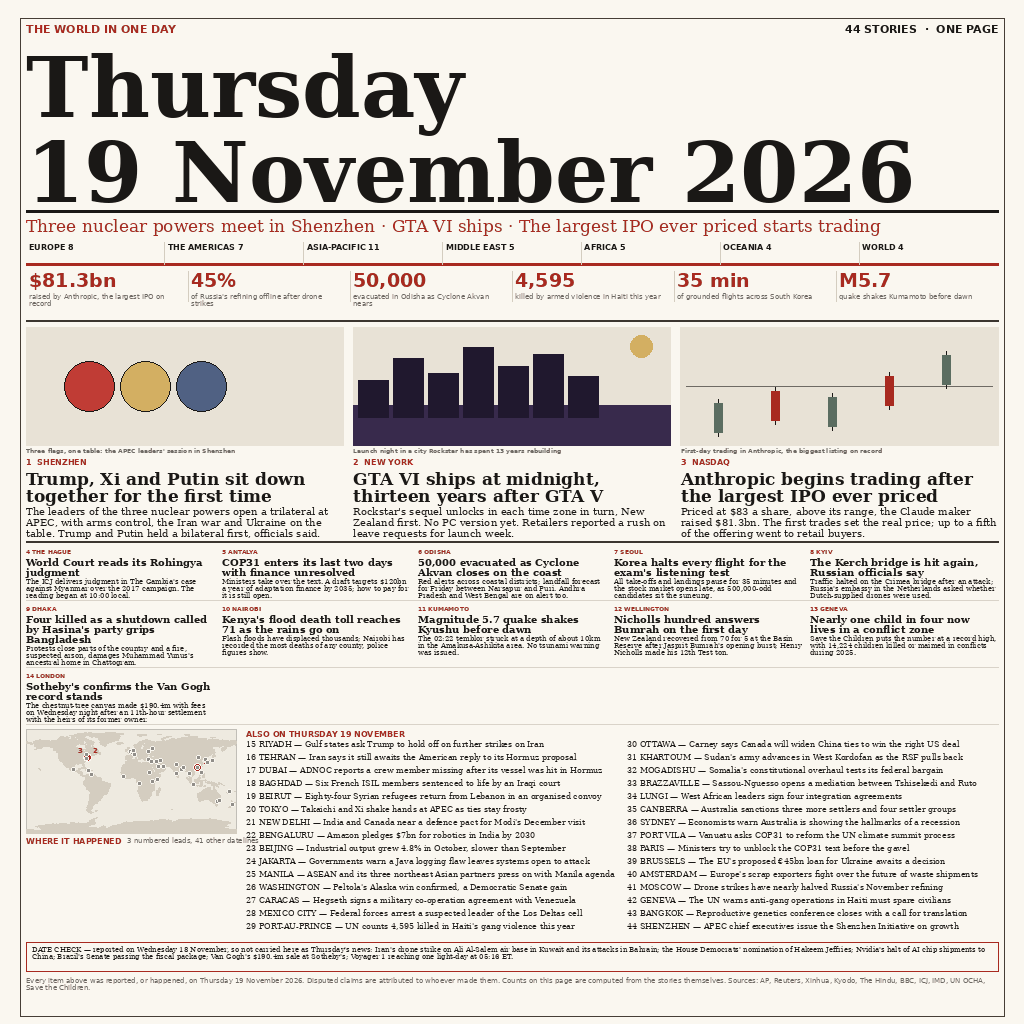
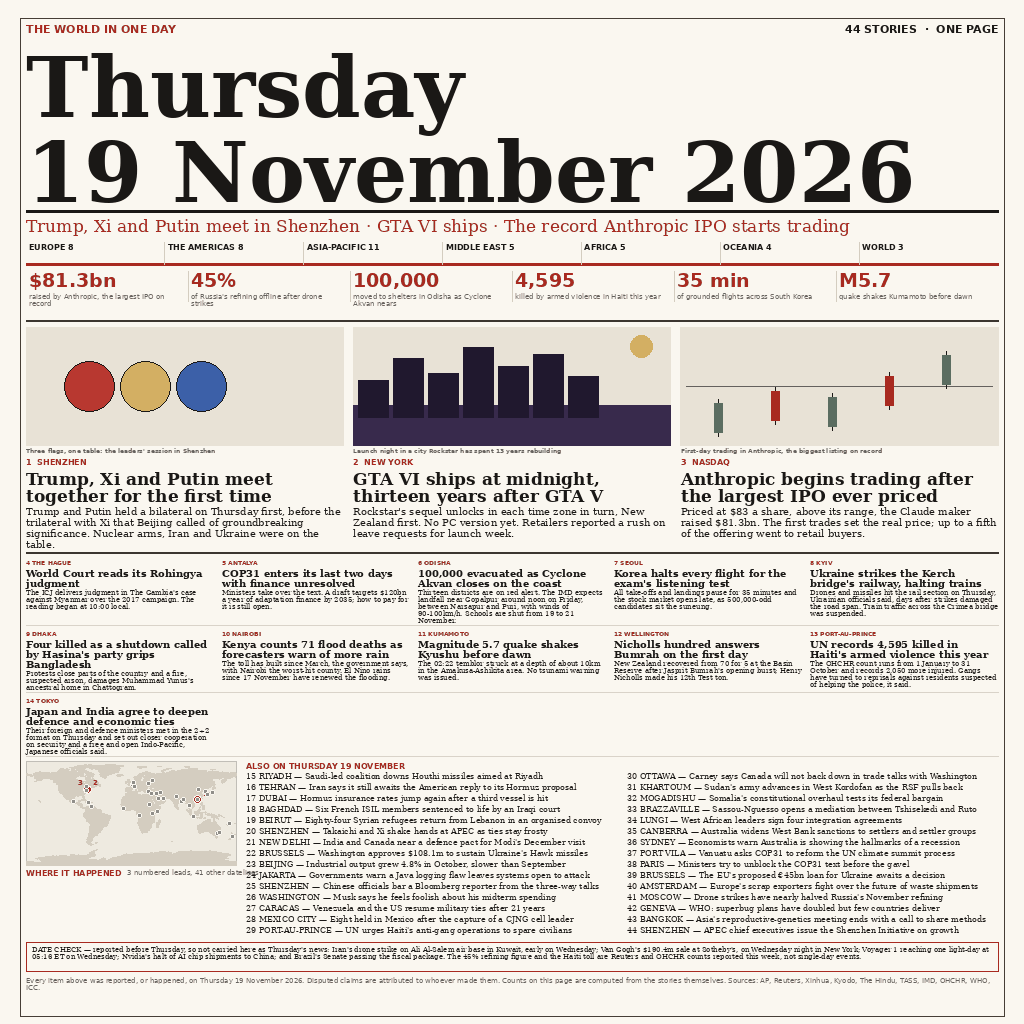
Correct dated claims and rebuild the 19 November front page

Changed region(s): [[0.0, 0.4375, 0.9688, 0.9688], [0.0312, 0.2188, 0.8438, 0.3125], [0.1562, 0.3438, 0.2188, 0.4062]]

diff --git a/stories.py b/stories.py
@@ -8,40 +8,41 @@ date-check band rather than presented as Thursday's news.
 DATA = {
     "paper": "The World in One Day",
     "date_lines": ["Thursday", "19 November 2026"],
-    "standfirst": "Three nuclear powers meet in Shenzhen  ·  GTA VI ships  ·  "
-                  "The largest IPO ever priced starts trading",
+    "standfirst": "Trump, Xi and Putin meet in Shenzhen  ·  GTA VI ships  ·  "
+                  "The record Anthropic IPO starts trading",
     "region_order": ["EUROPE", "THE AMERICAS", "ASIA-PACIFIC", "MIDDLE EAST",
                      "AFRICA", "OCEANIA", "WORLD"],
     "figures": [
         ("$81.3bn", "raised by Anthropic, the largest IPO on record"),
         ("45%", "of Russia's refining offline after drone strikes"),
-        ("50,000", "evacuated in Odisha as Cyclone Akvan nears"),
+        ("100,000", "moved to shelters in Odisha as Cyclone Akvan nears"),
         ("4,595", "killed by armed violence in Haiti this year"),
         ("35 min", "of grounded flights across South Korea"),
         ("M5.7", "quake shakes Kumamoto before dawn"),
     ],
     "brief_header": "Also on Thursday 19 November",
     "date_check": (
-        "reported on Wednesday 18 November, so not carried here as Thursday's news: "
-        "Iran's drone strike on Ali Al-Salem air base in Kuwait and its attacks in Bahrain; "
-        "the House Democrats' nomination of Hakeem Jeffries; Nvidia's halt of AI chip "
-        "shipments to China; Brazil's Senate passing the fiscal package; Van Gogh's "
-        "$190.4m sale at Sotheby's; Voyager 1 reaching one light-day at 05:16 ET."
+        "reported before Thursday, so not carried here as Thursday's news: Iran's drone "
+        "strike on Ali Al-Salem air base in Kuwait, early on Wednesday; Van Gogh's $190.4m "
+        "sale at Sotheby's, on Wednesday night in New York; Voyager 1 reaching one "
+        "light-day at 05:16 ET on Wednesday; Nvidia's halt of AI chip shipments to China; "
+        "and Brazil's Senate passing the fiscal package. The 45% refining figure and the "
+        "Haiti toll are Reuters and OHCHR counts reported this week, not single-day events."
     ),
     "footer": (
         "Every item above was reported, or happened, on Thursday 19 November 2026. "
         "Disputed claims are attributed to whoever made them. Counts on this page are "
         "computed from the stories themselves. Sources: AP, Reuters, Xinhua, Kyodo, "
-        "The Hindu, BBC, ICJ, IMD, UN OCHA, Save the Children."
+        "The Hindu, TASS, IMD, OHCHR, WHO, ICC."
     ),
     "stories": [
         # ---------------- leads, illustrated ----------------
         dict(n=1, region="ASIA-PACIFIC", where="Shenzhen", art="flags",
-             caption="Three flags, one table: the APEC leaders\' session in Shenzhen",
-             head="Trump, Xi and Putin sit down together for the first time",
-             text="The leaders of the three nuclear powers open a trilateral at APEC, "
-                  "with arms control, the Iran war and Ukraine on the table. Trump and "
-                  "Putin held a bilateral first, officials said.",
+             caption="Three flags, one table: the leaders' session in Shenzhen",
+             head="Trump, Xi and Putin meet together for the first time",
+             text="Trump and Putin held a bilateral on Thursday first, before the "
+                  "trilateral with Xi that Beijing called of groundbreaking significance. "
+                  "Nuclear arms, Iran and Ukraine were on the table.",
              lon=114.06, lat=22.54),
         dict(n=2, region="THE AMERICAS", where="New York", art="skyline",
              caption="Launch night in a city Rockstar has spent 13 years rebuilding",
@@ -70,10 +71,10 @@ DATA = {
                   "adaptation finance by 2035; how to pay for it is still open.",
              lon=30.7, lat=36.9),
         dict(n=6, region="ASIA-PACIFIC", where="Odisha", mid=True,
-             head="50,000 evacuated as Cyclone Akvan closes on the coast",
-             text="Red alerts across coastal districts; landfall forecast for Friday "
-                  "between Narsapur and Puri. Andhra Pradesh and West Bengal are on "
-                  "alert too.",
+             head="100,000 evacuated as Cyclone Akvan closes on the coast",
+             text="Thirteen districts are on red alert. The IMD expects landfall near "
+                  "Gopalpur around noon on Friday, between Narsapur and Puri, with winds "
+                  "of 90-100km/h. Schools are shut from 19 to 21 November.",
              lon=85.8, lat=20.3),
         dict(n=7, region="ASIA-PACIFIC", where="Seoul", mid=True,
              head="Korea halts every flight for the exam's listening test",
@@ -81,9 +82,10 @@ DATA = {
                   "opens late, as 500,000-odd candidates sit the suneung.",
              lon=126.98, lat=37.57),
         dict(n=8, region="EUROPE", where="Kyiv", mid=True,
-             head="The Kerch bridge is hit again, Russian officials say",
-             text="Traffic halted on the Crimea bridge after an attack; Russia's embassy "
-                  "in the Netherlands asked whether Dutch-supplied drones were used.",
+             head="Ukraine strikes the Kerch bridge's railway, halting trains",
+             text="Drones and missiles hit the rail section on Thursday, Ukrainian "
+                  "officials said, days after strikes damaged the road span. Train "
+                  "traffic across the Crimea bridge was suspended.",
              lon=30.52, lat=50.45),
         dict(n=9, region="ASIA-PACIFIC", where="Dhaka", mid=True,
              head="Four killed as a shutdown called by Hasina's party grips Bangladesh",
@@ -91,9 +93,10 @@ DATA = {
                   "damages Muhammad Yunus's ancestral home in Chattogram.",
              lon=90.4, lat=23.81),
         dict(n=10, region="AFRICA", where="Nairobi", mid=True,
-             head="Kenya's flood death toll reaches 71 as the rains go on",
-             text="Flash floods have displaced thousands; Nairobi has recorded the most "
-                  "deaths of any county, police figures show.",
+             head="Kenya counts 71 flood deaths as forecasters warn of more rain",
+             text="The toll has built since March, the government says, with Nairobi the "
+                  "worst-hit county. El Nino rains since 17 November have renewed the "
+                  "flooding.",
              lon=36.82, lat=-1.29),
         dict(n=11, region="ASIA-PACIFIC", where="Kumamoto", mid=True,
              head="Magnitude 5.7 quake shakes Kyushu before dawn",
@@ -105,26 +108,28 @@ DATA = {
              text="New Zealand recovered from 70 for 5 at the Basin Reserve after "
                   "Jasprit Bumrah's opening burst; Henry Nicholls made his 12th Test ton.",
              lon=174.78, lat=-41.29),
-        dict(n=13, region="WORLD", where="Geneva", mid=True,
-             head="Nearly one child in four now lives in a conflict zone",
-             text="Save the Children puts the number at a record high, with 14,224 "
-                  "children killed or maimed in conflicts during 2025.",
-             lon=6.14, lat=46.2),
-        dict(n=14, region="EUROPE", where="London", mid=True,
-             head="Sotheby's confirms the Van Gogh record stands",
-             text="The chestnut-tree canvas made $190.4m with fees on Wednesday night "
-                  "after an 11th-hour settlement with the heirs of its former owner.",
-             lon=-0.13, lat=51.51),
+        dict(n=13, region="THE AMERICAS", where="Port-au-Prince", mid=True,
+             head="UN records 4,595 killed in Haiti's armed violence this year",
+             text="The OHCHR count runs from 1 January to 31 October and records 2,050 "
+                  "more injured. Gangs have turned to reprisals against residents "
+                  "suspected of helping the police, it said.",
+             lon=-72.34, lat=18.54),
+        dict(n=14, region="ASIA-PACIFIC", where="Tokyo", mid=True,
+             head="Japan and India agree to deepen defence and economic ties",
+             text="Their foreign and defence ministers met in the 2+2 format on Thursday "
+                  "and set out closer cooperation on security and a free and open "
+                  "Indo-Pacific, Japanese officials said.",
+             lon=139.69, lat=35.69),
 
         # ---------------- briefs ----------------
         dict(n=15, region="MIDDLE EAST", where="Riyadh",
-             head="Gulf states ask Trump to hold off on further strikes on Iran",
+             head="Saudi-led coalition downs Houthi missiles aimed at Riyadh",
              lon=46.72, lat=24.71),
         dict(n=16, region="MIDDLE EAST", where="Tehran",
              head="Iran says it still awaits the American reply to its Hormuz proposal",
              lon=51.39, lat=35.69),
         dict(n=17, region="MIDDLE EAST", where="Dubai",
-             head="ADNOC reports a crew member missing after its vessel was hit in Hormuz",
+             head="Hormuz insurance rates jump again after a third vessel is hit",
              lon=55.27, lat=25.2),
         dict(n=18, region="MIDDLE EAST", where="Baghdad",
              head="Six French ISIL members sentenced to life by an Iraqi court",
@@ -132,38 +137,38 @@ DATA = {
         dict(n=19, region="MIDDLE EAST", where="Beirut",
              head="Eighty-four Syrian refugees return from Lebanon in an organised convoy",
              lon=35.5, lat=33.89),
-        dict(n=20, region="ASIA-PACIFIC", where="Tokyo",
+        dict(n=20, region="ASIA-PACIFIC", where="Shenzhen",
              head="Takaichi and Xi shake hands at APEC as ties stay frosty",
-             lon=139.69, lat=35.69),
+             lon=114.06, lat=22.54),
         dict(n=21, region="ASIA-PACIFIC", where="New Delhi",
              head="India and Canada near a defence pact for Modi's December visit",
              lon=77.21, lat=28.61),
-        dict(n=22, region="ASIA-PACIFIC", where="Bengaluru",
-             head="Amazon pledges $7bn for robotics in India by 2030",
-             lon=77.59, lat=12.97),
+        dict(n=22, region="EUROPE", where="Brussels",
+             head="Washington approves $108.1m to sustain Ukraine's Hawk missiles",
+             lon=4.35, lat=50.85),
         dict(n=23, region="ASIA-PACIFIC", where="Beijing",
              head="Industrial output grew 4.8% in October, slower than September",
              lon=116.4, lat=39.9),
         dict(n=24, region="ASIA-PACIFIC", where="Jakarta",
              head="Governments warn a Java logging flaw leaves systems open to attack",
              lon=106.85, lat=-6.21),
-        dict(n=25, region="ASIA-PACIFIC", where="Manila",
-             head="ASEAN and its three northeast Asian partners press on with Manila agenda",
-             lon=120.98, lat=14.6),
+        dict(n=25, region="ASIA-PACIFIC", where="Shenzhen",
+             head="Chinese officials bar a Bloomberg reporter from the three-way talks",
+             lon=114.06, lat=22.54),
         dict(n=26, region="THE AMERICAS", where="Washington",
-             head="Peltola's Alaska win confirmed, a Democratic Senate gain",
+             head="Musk says he feels foolish about his midterm spending",
              lon=-77.04, lat=38.9),
         dict(n=27, region="THE AMERICAS", where="Caracas",
-             head="Hegseth signs a military co-operation agreement with Venezuela",
+             head="Venezuela and the US resume military ties after 21 years",
              lon=-66.9, lat=10.49),
         dict(n=28, region="THE AMERICAS", where="Mexico City",
-             head="Federal forces arrest a suspected leader of the Los Deltas cell",
+             head="Eight held in Mexico after the capture of a CJNG cell leader",
              lon=-99.13, lat=19.43),
         dict(n=29, region="THE AMERICAS", where="Port-au-Prince",
-             head="UN counts 4,595 killed in Haiti's gang violence this year",
+             head="UN urges Haiti's anti-gang operations to spare civilians",
              lon=-72.34, lat=18.54),
         dict(n=30, region="THE AMERICAS", where="Ottawa",
-             head="Carney says Canada will widen China ties to win the right US deal",
+             head="Carney says Canada will not back down in trade talks with Washington",
              lon=-75.7, lat=45.42),
         dict(n=31, region="AFRICA", where="Khartoum",
              head="Sudan's army advances in West Kordofan as the RSF pulls back",
@@ -178,7 +183,7 @@ DATA = {
              head="West African leaders sign four integration agreements",
              lon=-13.2, lat=8.6),
         dict(n=35, region="OCEANIA", where="Canberra",
-             head="Australia sanctions three more settlers and four settler groups",
+             head="Australia widens West Bank sanctions to settlers and settler groups",
              lon=149.13, lat=-35.28),
         dict(n=36, region="OCEANIA", where="Sydney",
              head="Economists warn Australia is showing the hallmarks of a recession",
@@ -199,10 +204,10 @@ DATA = {
              head="Drone strikes have nearly halved Russia's November refining",
              lon=37.62, lat=55.75),
         dict(n=42, region="WORLD", where="Geneva",
-             head="The UN warns anti-gang operations in Haiti must spare civilians",
+             head="WHO: superbug plans have doubled but few countries deliver",
              lon=6.15, lat=46.21),
         dict(n=43, region="WORLD", where="Bangkok",
-             head="Reproductive genetics conference closes with a call for translation",
+             head="Asia's reproductive-genetics meeting ends with a call to share methods",
              lon=100.5, lat=13.75),
         dict(n=44, region="WORLD", where="Shenzhen",
              head="APEC chief executives issue the Shenzhen Initiative on growth",
